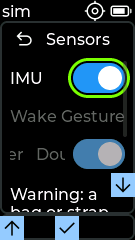
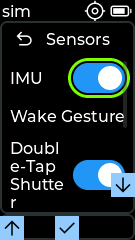
fix(ui): keep narrow gesture settings readable

diff --git a/src/FurbleUI.cpp b/src/FurbleUI.cpp
@@ -1577,7 +1577,10 @@ void UI::addSettingItem(lv_obj_t *page, const char *symbol, Settings::type_t set
 
   lv_obj_t *label = lv_label_create(obj);
   lv_label_set_text(label, s.name);
-  lv_label_set_long_mode(label, LV_LABEL_LONG_SCROLL_CIRCULAR);
+  // Settings names must remain fully readable in deterministic screenshots and
+  // on narrow panels. A circular marquee can capture midway through a label and
+  // leave its first characters clipped; wrapping preserves the whole name.
+  lv_label_set_long_mode(label, LV_LABEL_LONG_WRAP);
   lv_obj_set_flex_grow(label, 1);
 
   lv_obj_t *sw = lv_switch_create(obj);
@@ -3450,7 +3453,7 @@ std::string UI::simQueryState(const char *key) {
   // Report whether the current page's content is taller than its viewport, i.e.
   // it needs scrolling. Combined with a screenshot this flags layout overflow
   // on the narrow panels.
-  if (query == "overflow") {
+  if (query == "overflow" || query == "page_overflow") {
     lv_obj_t *page = lv_menu_get_cur_main_page(m_MainMenu.main);
     if (page == nullptr) {
       return "unknown";
@@ -7619,9 +7622,10 @@ void UI::diagnosticsUpdate(lv_timer_t *timer) {
  * Add a labelled roller row to a menu page.
  *
  * The row is sized to its content so the page keeps flowing, a full height row
- * pushes later rows off screen and stops the page scrolling. The roller is
- * flagged to scroll itself into view, which is the only way the page scrolls
- * under encoder navigation.
+ * pushes later rows off screen and stops the page scrolling. Roller labels wrap
+ * instead of using LVGL's circular horizontal marquee: that animation can leave
+ * a deterministic screenshot at an arbitrary clipped offset and obscures the
+ * setting name on narrow panels.
  */
 static lv_obj_t *addRollerItem(lv_obj_t *page, const char *text, const char *options) {
   lv_obj_t *cont = lv_menu_cont_create(page);
@@ -7630,7 +7634,7 @@ static lv_obj_t *addRollerItem(lv_obj_t *page, const char *text, const char *opt
 
   lv_obj_t *label = lv_label_create(cont);
   lv_label_set_text(label, text);
-  lv_label_set_long_mode(label, LV_LABEL_LONG_SCROLL_CIRCULAR);
+  lv_label_set_long_mode(label, LV_LABEL_LONG_WRAP);
   lv_obj_set_width(label, LV_PCT(100));
 
   lv_obj_t *roller = lv_roller_create(cont);
